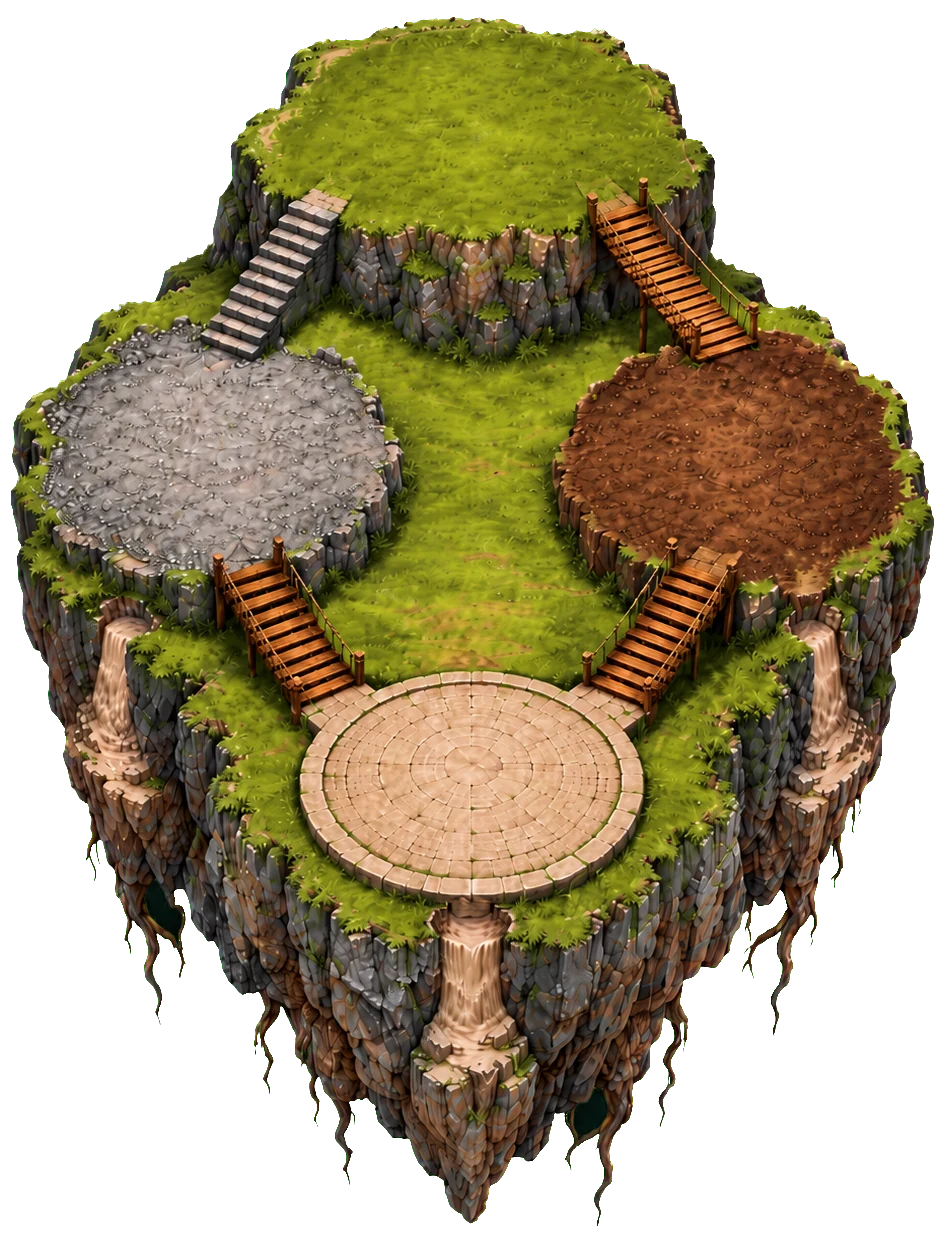
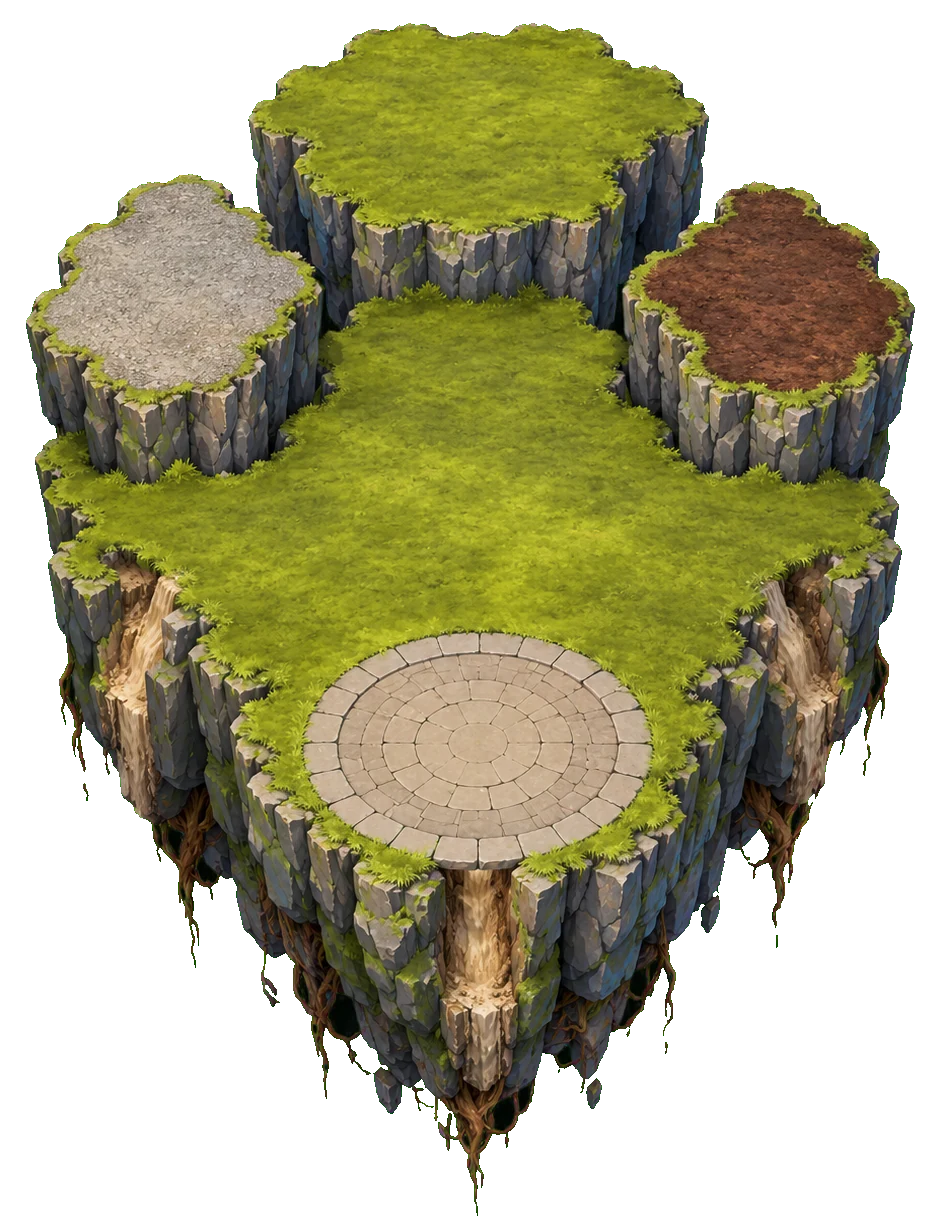
新島（冇樓梯冇橋）+ Sky 嘅浮石圖：18 粒浮石跳過各區做路；買咗石面染買家顏色、×1–×4 牌；第一頁同棋盤一樣
Claude-Session: https://claude.ai/code/session_01E2utfFQBUZUAHLnSXfgdjb

diff --git a/components/eight-scene.ts b/components/eight-scene.ts
@@ -909,7 +909,10 @@ export function createBoardScene(
   };
   /** 三葉草 (Sky 2026-10-09): each square is a little floating stone over the painted island, the path hopping from
    *  stone to stone. A bought stone turns the owner's colour and shows its toll as ×1…×4 instead of a building. */
-  const STONE = 0xa99d86, STONE_LIFT = 0.95;
+  const STONE = 0xffffff, STONE_LIFT = 0.8, STONE_W_PX = 84;
+  const stoneTex = clover ? new T.TextureLoader().load("/art/islands/stone.webp") : null;
+  const stoneTopTex = clover ? new T.TextureLoader().load("/art/islands/stone-top.webp") : null;
+  if (stoneTex) stoneTex.encoding = T.sRGBEncoding;
   const badgePics = new Map<string, any>();
   const badgePic = (level: number, color: string) => {
     const id = `${level}${color}`;
@@ -955,10 +958,25 @@ export function createBoardScene(
       tiles[key] = { group, body: pad, base: 0xf4e2b8, inward: new T.Vector3(0, 0, -0.27), house: null, yaw: 0 };
       return;
     }
-    const isle = islandMesh(0.95 * ISLE, 300 + Number(key.slice(1)) * 23, STONE);
-    group.add(isle.group);
-    const body = isle.top;
-    body.material = matC(STONE, 0.8, { flatShading: true });
+    // Sky's stone picture, standing up to the camera with the middle of its flat top on the square; a white copy of
+    // just the top, tinted, shows the owner's colour.
+    const holder = new T.Group();
+    holder.rotation.x = -CLOVER_ELEV;
+    group.add(holder);
+    const w = STONE_W_PX * CLOVER_PX, h = w * (294 / 320);
+    const plane = () => {
+      const geo = new T.PlaneGeometry(w, h);
+      geo.translate(w * (0.5 - 0.494), h * (0.5 - (1 - 0.261)), 0);
+      return geo;
+    };
+    const stone = new T.Mesh(plane(), new T.MeshBasicMaterial({ map: stoneTex, transparent: true, alphaTest: 0.05, depthWrite: false, toneMapped: false }));
+    stone.position.y = TOP;
+    holder.add(stone);
+    const tint = new T.Mesh(plane(), new T.MeshBasicMaterial({ map: stoneTopTex, transparent: true, depthWrite: false, toneMapped: false, opacity: 0.72 }));
+    tint.position.set(0, TOP, 0.003);
+    tint.visible = false;
+    holder.add(tint);
+    const body = tint;
     breathers.push({ obj: group, base: STONE_LIFT, phase: Math.random() * Math.PI * 2, period: 3.4 + Math.random() * 1.2, key });
     const badge = new T.Sprite(new T.SpriteMaterial({ transparent: true, depthWrite: false }));
     badge.center.set(0.5, 0);
@@ -1966,7 +1984,8 @@ export function createBoardScene(
       if (!tile) return;
       if (clover) {
         // 三葉草: the stone turns the owner's colour and its toll shows as ×1…×4 (Sky 2026-10-09: no buildings).
-        const m = tile.body.material, from = m.color.clone(), to = new T.Color(hex(colours[seat])).convertSRGBToLinear();
+        const m = tile.body.material, from = tile.body.visible ? m.color.clone() : new T.Color(hex(colours[seat])), to = new T.Color(hex(colours[seat]));
+        tile.body.visible = true;
         const badge = badges[key];
         if (badge) {
           badge.material.map = badgePic(Math.min(4, level), colours[seat]);
@@ -2009,7 +2028,7 @@ export function createBoardScene(
       tile.house = null;
       tile.body.material.color.setHex(tile.base);
       if (clover) {
-        tile.body.material.color.convertSRGBToLinear();
+        tile.body.visible = false;
         if (badges[key]) badges[key].visible = false;
       }
       tile.pic?.color.setHex(PIC_WHITE);

diff --git a/lib/islands.ts b/lib/islands.ts
@@ -31,8 +31,8 @@ export type DecorKind = "windmill" | "tower" | "dragon" | "balloon" | "airship";
 export const DECOR_DIR = "/art/islands/decor/";
 
 /**
- * 森林礦島 (Sky 2026-10-09, second drawing): an empty island — Sky drew only the ground, stairs and bridge; the 18
- * squares and stone paths are laid on by us. Plaza at the front → quarry (left) → forest (back) → mine (right).
+ * 森林礦島 (Sky 2026-10-09, third drawing): separate plateaus and no stairs — the 18 squares are floating stones
+ * (Sky's stone picture) that hop between them. Plaza at the front → quarry (left) → forest (back) → mine (right).
  */
 export const ISLANDS: IslandArt[] = [
   {
@@ -40,22 +40,20 @@ export const ISLANDS: IslandArt[] = [
     name: "森林礦島",
     art: "/art/islands/forest.webp",
     w: 941,
-    h: 1240,
-    top: 220,
+    h: 1230,
+    top: 230,
     squares: [
-      { x: 470, y: 872 },
-      // 石場
-      { x: 268, y: 522 }, { x: 185, y: 530 }, { x: 108, y: 485 }, { x: 96, y: 415 }, { x: 150, y: 368 }, { x: 232, y: 380 },
-      // 森林
-      { x: 345, y: 172 }, { x: 305, y: 112 }, { x: 382, y: 66 }, { x: 490, y: 54 }, { x: 590, y: 74 }, { x: 630, y: 140 },
-      // 礦場
-      { x: 728, y: 392 }, { x: 815, y: 392 }, { x: 875, y: 452 }, { x: 860, y: 522 }, { x: 780, y: 550 }, { x: 698, y: 528 },
+      { x: 478, y: 838 },
+      // 平地 → 石場 → 森林 → 礦場 → 平地: floating stones all the way (Sky 2026-10-09: stones are the bridges)
+      { x: 308, y: 623 }, { x: 233, y: 558 }, { x: 167, y: 484 }, { x: 126, y: 395 }, { x: 134, y: 299 }, { x: 208, y: 241 },
+      { x: 283, y: 216 }, { x: 334, y: 133 }, { x: 421, y: 91 }, { x: 519, y: 85 }, { x: 614, y: 110 }, { x: 680, y: 180 },
+      { x: 753, y: 244 }, { x: 837, y: 287 }, { x: 835, y: 372 }, { x: 760, y: 435 }, { x: 689, y: 501 }, { x: 630, y: 580 },
     ],
-    nest: { x: 470, y: 840, w: 250 },
+    nest: { x: 478, y: 805, w: 250 },
     falls: [
-      { x: 95, y: 618, w: 48, h: 125 },
-      { x: 797, y: 620, w: 48, h: 125 },
-      { x: 446, y: 912, w: 62, h: 125 },
+      { x: 118, y: 575, w: 38, h: 180 },
+      { x: 776, y: 570, w: 38, h: 180 },
+      { x: 460, y: 875, w: 42, h: 170 },
     ],
     spots: [
       { x: 470, y: 165, kind: "big" },

diff --git a/components/island-home.tsx b/components/island-home.tsx
@@ -9,9 +9,9 @@ import { loadNestLevel, loadPet, saveNestLevel } from "@/components/wallet-store
 import { DECOR_DIR as D, type At, type DecorKind, type IslandArt, ISLANDS } from "@/lib/islands";
 
 const SHOW_SPOTS = false;
-/** The board stones float 0.95 world units up (46 picture pixels seen from the camera) and are about 74 pixels across. */
-const STONE_LIFT_PX = 46;
-const STONE_W_PX = 74;
+/** The board stones float 0.8 world units up (39 picture pixels seen from the camera) and are 84 pixels across. */
+const STONE_LIFT_PX = 39;
+const STONE_W_PX = 84;
 const pct = (n: number, of: number) => `${(n / of) * 100}%`;
 
 /** One decoration, its foot on `at`, `w` wide (both in island pixels). */
@@ -108,7 +108,7 @@ function Island({ island, editing }: { island: IslandArt; editing: boolean }) {
               left: pct(sq.x, island.w),
               top: pct(sq.y - STONE_LIFT_PX, island.h),
               width: pct(STONE_W_PX, island.w),
-              transform: "translate(-50%, -34%)",
+              transform: "translate(-49.4%, -26.1%)",
               animation: `stone-bob ${3.4 + (i % 4) * 0.35}s ease-in-out ${-(i * 0.45)}s infinite`,
             }}
           />

diff --git a/public/sw.js b/public/sw.js
@@ -1,5 +1,5 @@
 // 大富翁 service worker: keeps the app shell and art so the board opens without a network.
-const CACHE = "dafuweng-v265";
+const CACHE = "dafuweng-v266";
 const SHELL = [
   "/",
   "/manifest.webmanifest",
